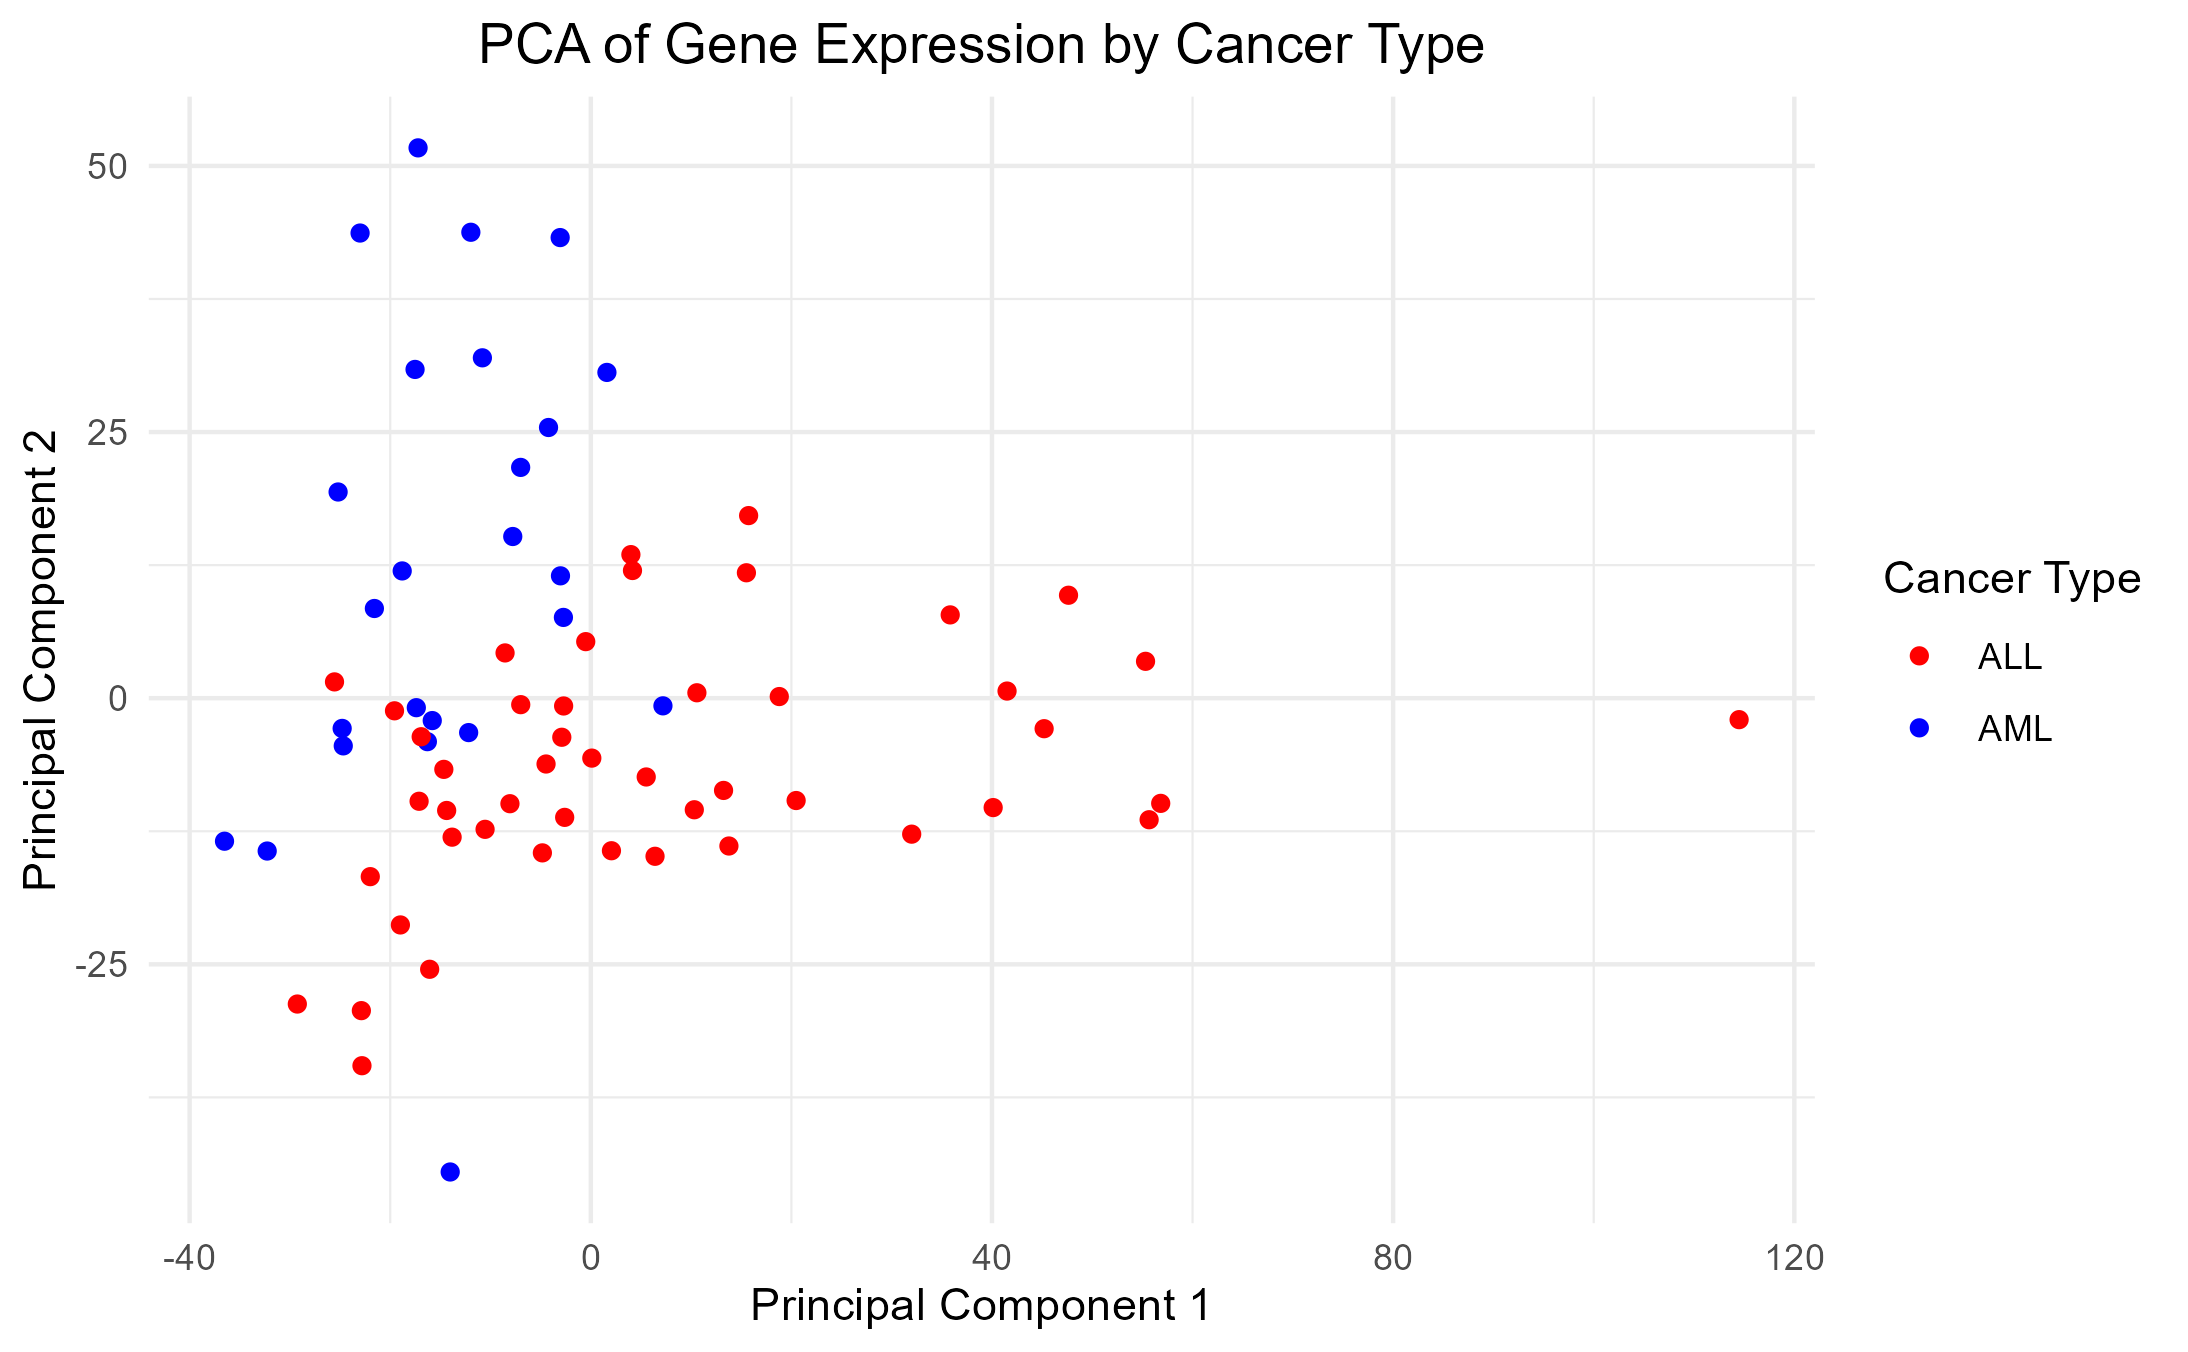
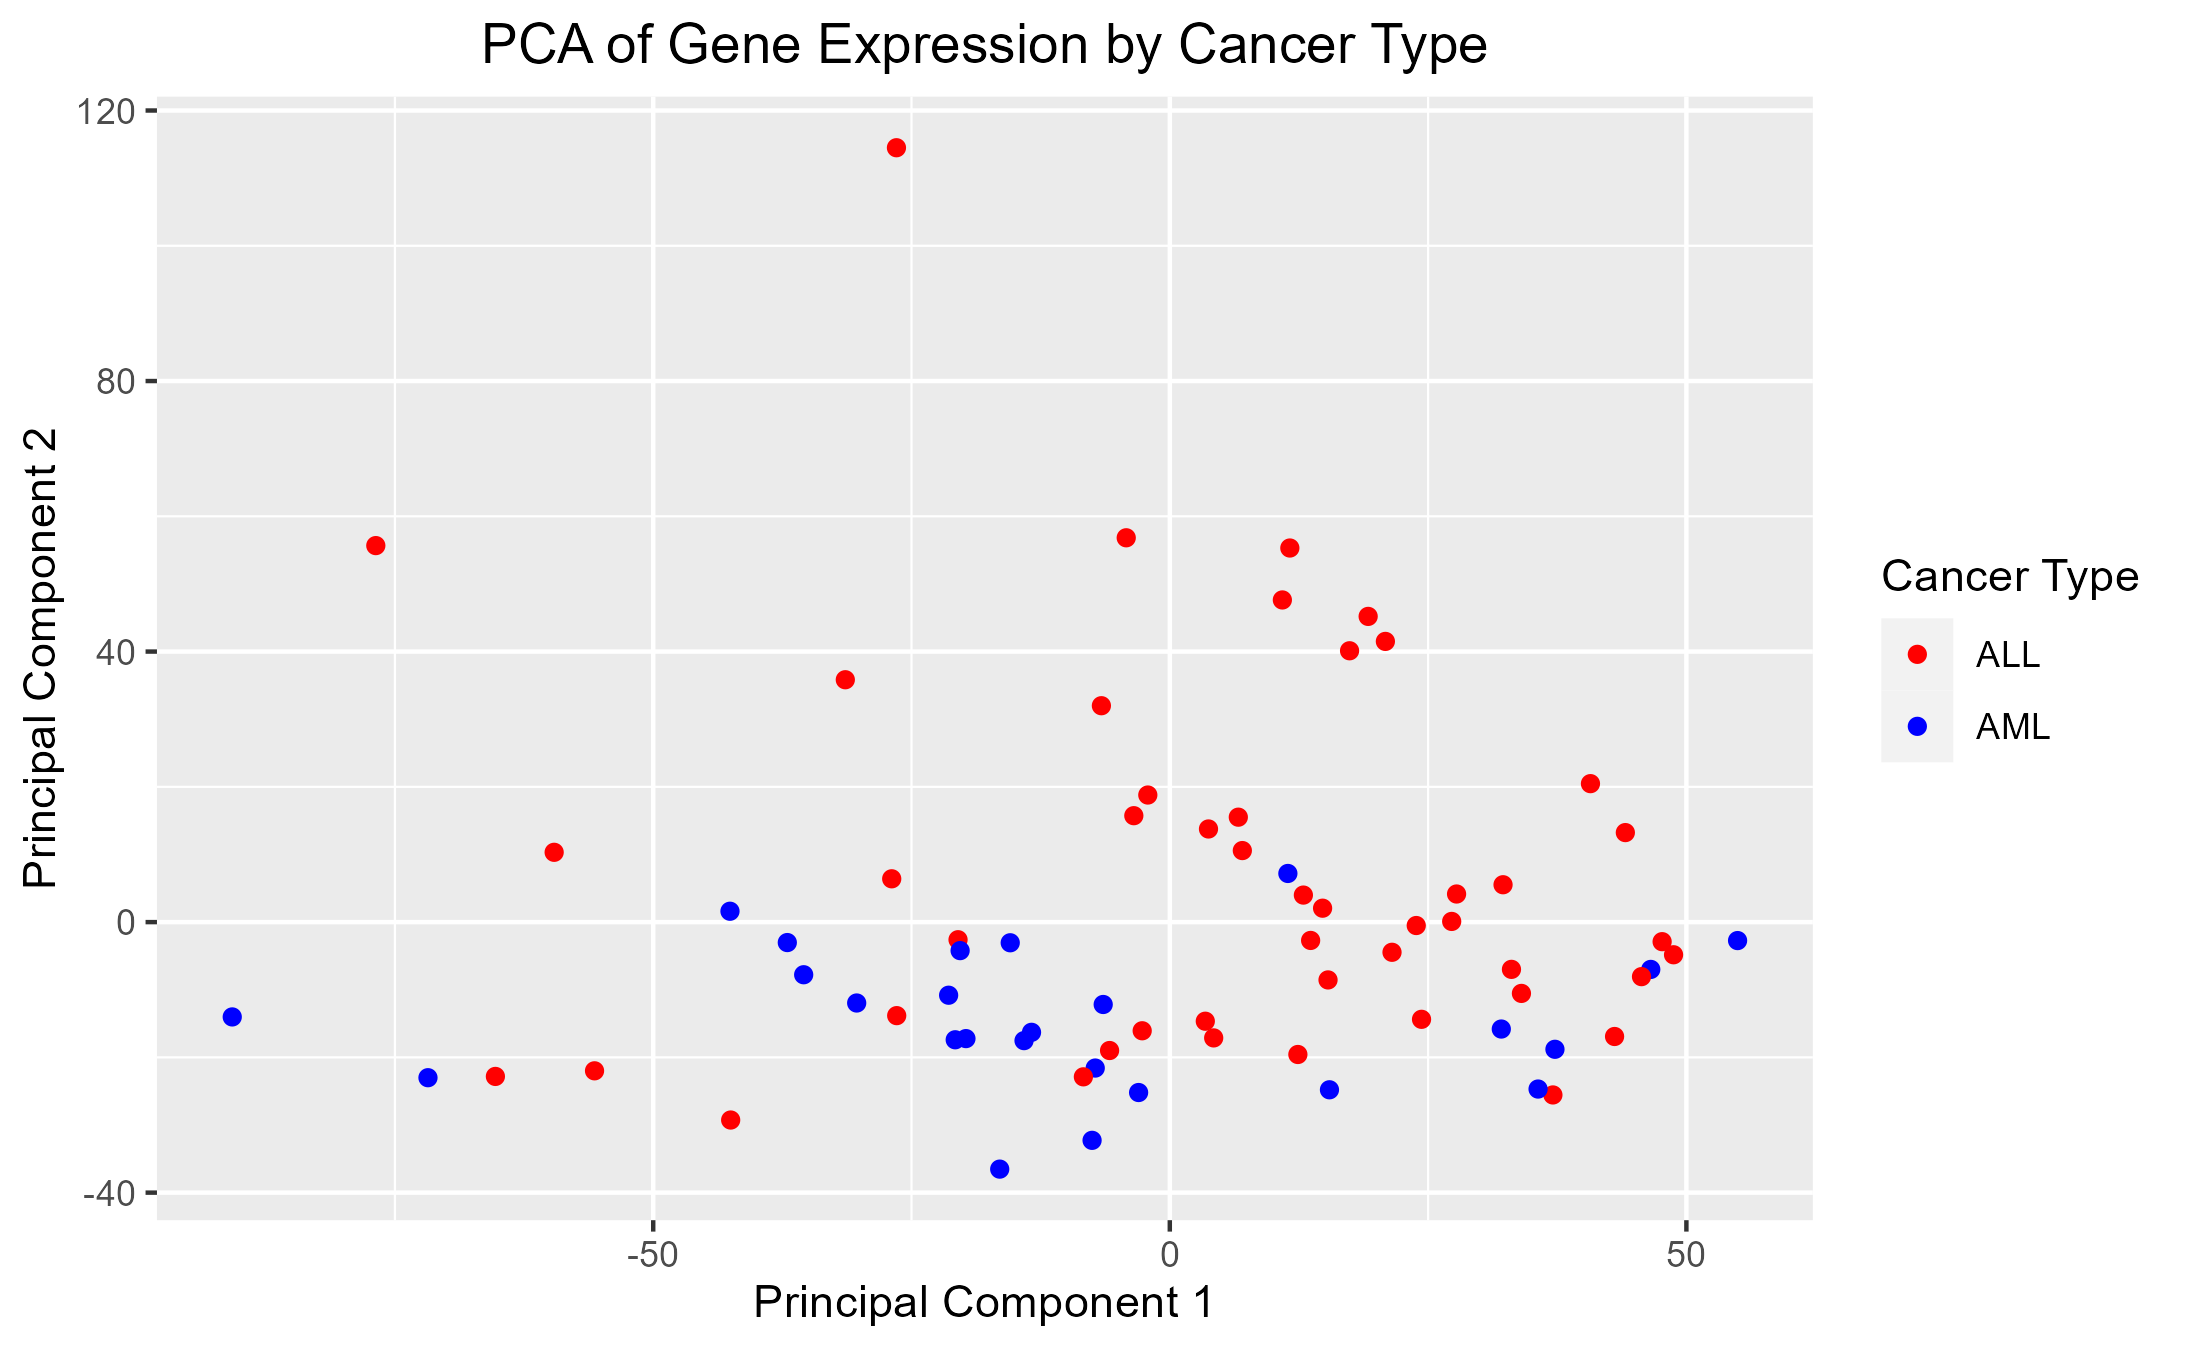
slide update

diff --git a/doc/presentation.html b/doc/presentation.html
@@ -375,17 +375,31 @@ Group 28
 </div>
 </div><div class="column" style="width:70%;">
 <div class="r-stack">
-<p><img data-src="../results/05_heatmap_1.png" class="fragment fade-out"></p>
-<p><img data-src="../results/05_heatmap_2.png" class="fragment"></p>
+<p><img data-src="../results/05_heatmap_1.png" class="fragment fade-in-then-out"></p>
+<p><img data-src="../results/05_heatmap_2.png" class="fragment fade-in-then-out"></p>
 </div>
 </div>
 </div>
 </section>
 <section class="slide level2">
 
-<h3 id="discussion">Discussion</h3>
+<h3 class="smaller" id="results---pca">Results - PCA</h3>
+<div class="columns">
+<div class="column" style="width:40%;">
+<div class="r-fit-text">
+<ul>
+<li>59 PCs explain 95% of variance in the data, top 2 - 26%</li>
+<li>PCA data points stratified by cancer type.</li>
+<li>PC1 - AML points spread out, ALL points more clustered</li>
+<li>PC2 - ALL points spread out, AML points more clustered.</li>
+</ul>
+</div>
+</div><div class="column" style="width:60%;">
 <div class="r-stack">
-<p><img data-src="../results/04_mean_expression_hist_general.png"></p>
+<p><img data-src="../results/05_pc_barplot.png" class="fragment fade-in-then-out" width="900" height="550"></p>
+<p><img data-src="../results/05_pca.png" class="fragment fade-in-then-out"></p>
+</div>
+</div>
 </div>
 <div class="footer footer-default">
 
